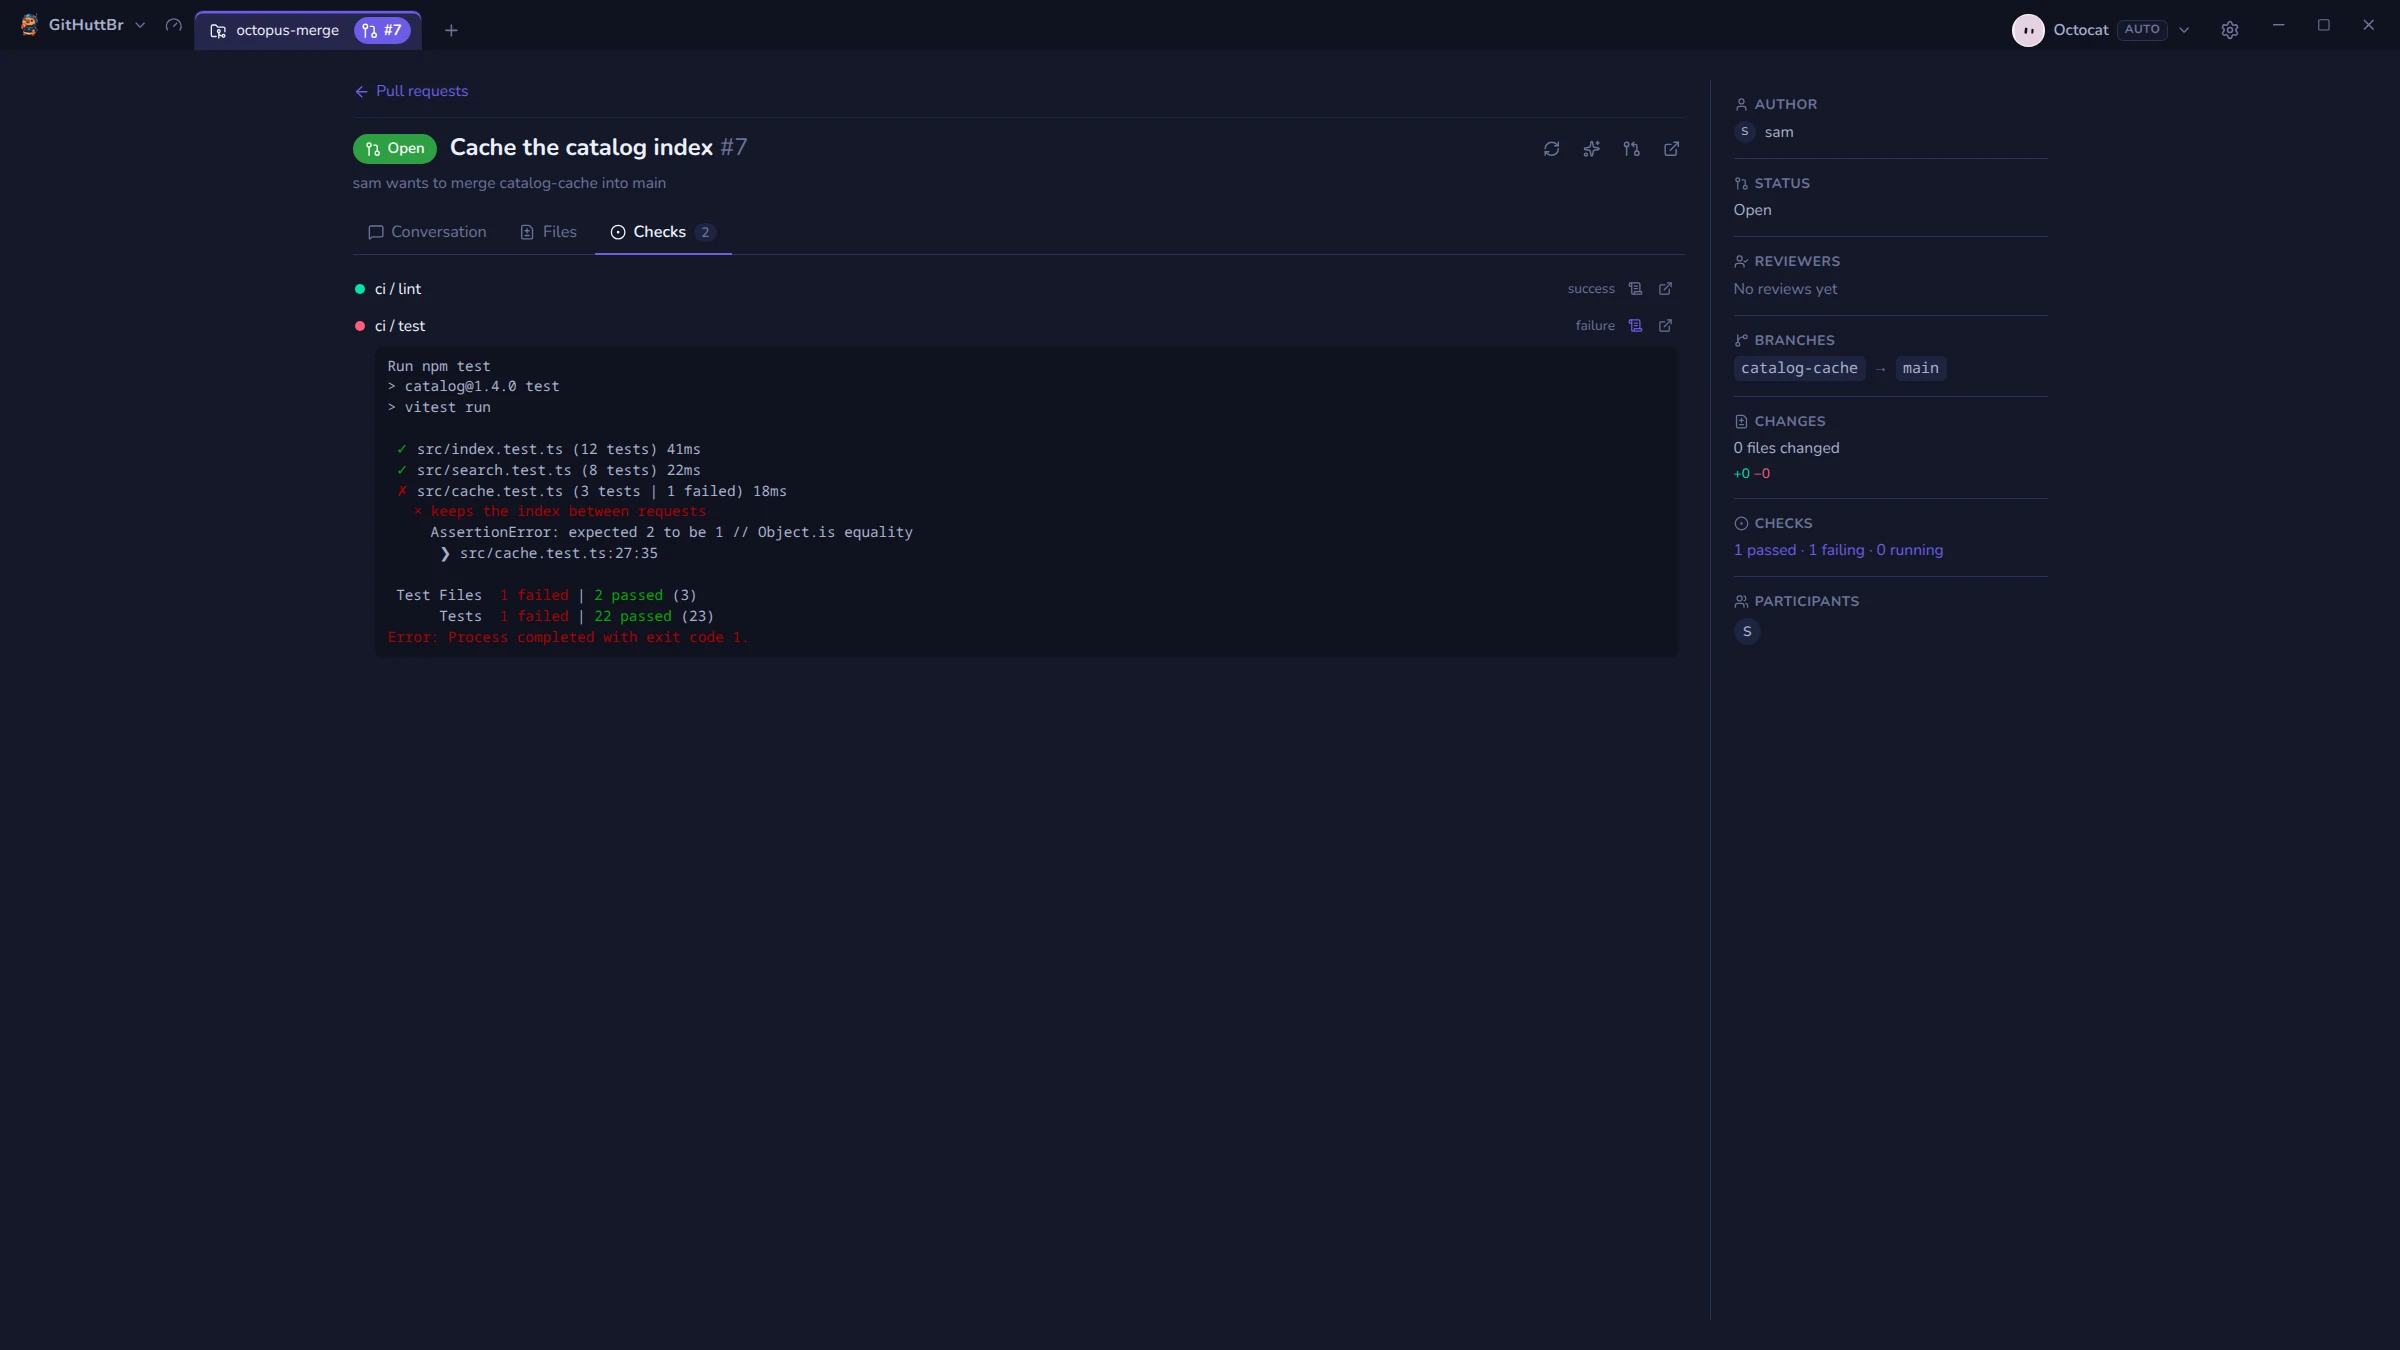
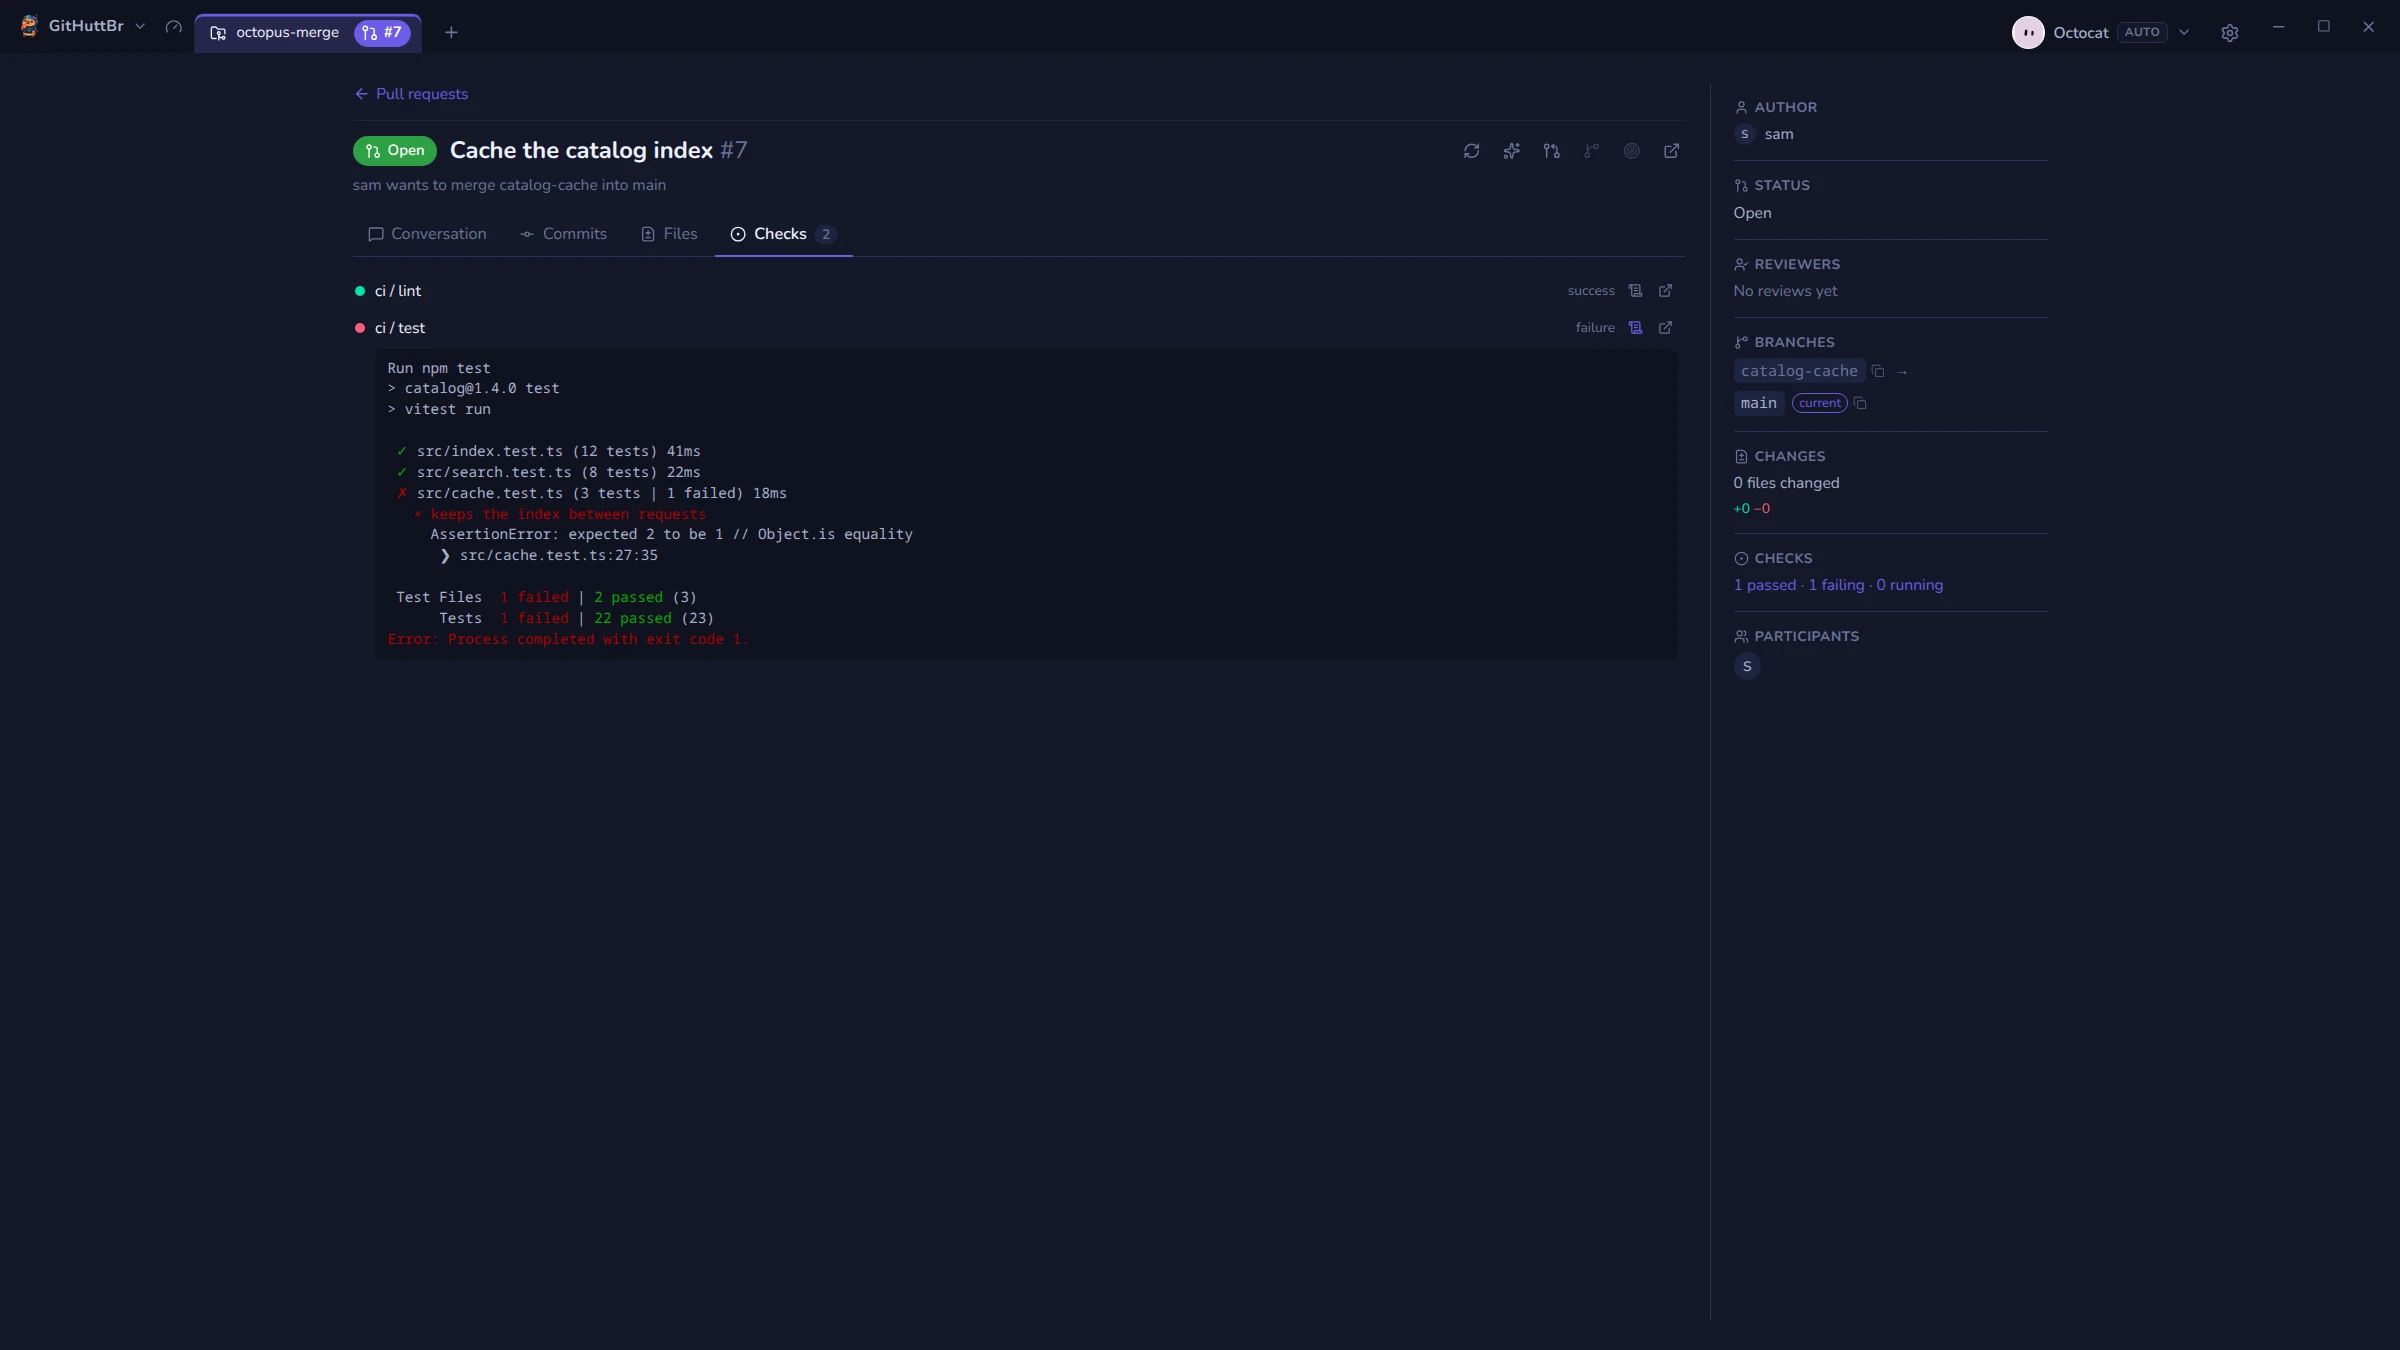
docs(pr): document the Commits tab, with a screenshot
A Commits section in the pull requests page (EN and pt-BR, source hash updated), a
pr-commits shot from faked commits, and one README line. The Files and Checks shots
move one tab to the right and are recaptured with the new tab bar.

diff --git a/docs/help/pt-BR/pull-requests.md b/docs/help/pt-BR/pull-requests.md
@@ -2,9 +2,9 @@
 title: Página de pull requests
 category: Sincronização e vários repositórios
 order: 57
-summary: Todos os pull requests de um repositório numa página — por estado, filtrados por autor, revisor, destino e CI — ‹ › para percorrer a lista filtrada de dentro de um PR, e comentários numa linha do diff.
-keywords: pull requests lista página merge requests pr mr filtro autor revisor meus aguardando minha revisão revisão pedida ci falhando branch de destino rascunhos mesclados fechados busca triagem anterior próximo alt seta navegação checkout ir para branch de origem destino copiar nome da branch buscar fetch comentário de linha comentário inline comentário de revisão comentar na linha aba arquivos revisão de código
-source: d1deab4d48f6f6327673e61daecb55ede0889881
+summary: Todos os pull requests de um repositório numa página — por estado, filtrados por autor, revisor, destino e CI — ‹ › para percorrer a lista filtrada de dentro de um PR, os commits dele, e comentários numa linha do diff.
+keywords: pull requests lista página merge requests pr mr filtro autor revisor meus aguardando minha revisão revisão pedida ci falhando branch de destino rascunhos mesclados fechados busca triagem anterior próximo alt seta navegação checkout ir para branch de origem destino copiar nome da branch buscar fetch comentário de linha comentário inline comentário de revisão comentar na linha aba arquivos revisão de código aba commits lista de commits commits do pr histórico abrir commit copiar sha buscar branch do pr
+source: 68a0d5d7aee35865690863be826be9099675b14f
 ---
 
 # Página de pull requests
@@ -156,6 +156,67 @@ O que não faz:
 - **Esta janela.** O checkout acontece na working tree deste repositório.
   Quando a branch já está em checkout em outra [worktree](worktrees.md), a aba
   dessa worktree é aberta no lugar.
+
+## Commits
+
+A barra lateral dizia quantos commits um pull request tem, nunca quais. Revisar
+um commit de cada vez — como a maioria dos pull requests foi feita para ser
+lida — mandava você para o navegador. A aba **Commits**, entre Conversa e
+Arquivos, lista os commits:
+
+- **Do mais antigo para o mais novo**, a ordem em que se aplicam, agrupados
+  pelo dia em que foram escritos. Um commit que entrou fora da ordem das datas
+  num rebase abre um dia próprio em vez de ser movido.
+- Cada linha tem a foto do autor (quando o host dá uma), o assunto, o autor,
+  há quanto tempo e o SHA curto. Um selo **merge** marca um commit com dois
+  pais, quando o host informa.
+- **▸** ao lado de um commit com mais que o assunto mostra o resto da mensagem.
+- **Copiar** põe o SHA completo na área de transferência; **Abrir no
+  navegador** abre o commit no host — dentro do pull request quando o host tem
+  essa página (GitHub, GitLab, Bitbucket Data Center), senão na página do
+  commit no repositório.
+
+![A aba Commits: os commits de um pull request agrupados por dia, um com a mensagem completa aberta](../../screenshots/pr-commits.webp)
+
+**Clique numa linha** — ou chegue nela com Tab e aperte Enter — para abrir o
+commit no app, como um clique no grafo faria: a visão do repositório, o commit
+selecionado, os detalhes abertos. Isso funciona quando este clone **tem** o
+commit. Quando não tem, a linha diz isso em vez de falhar calada, e oferece:
+
+- **Buscar a branch do PR para ver** — a mesma busca de uma branch só de
+  [ir para a branch](#ir-para-a-branch-de-um-pull-request), sem o checkout.
+  Quando o commit veio junto, ele abre; quando não veio (um force push o
+  reescreveu depois), o aviso diz isso.
+- **Abrir no navegador**, para quando buscar não é uma opção.
+
+A lista é lida na primeira vez que você abre a aba, não junto com a página, e
+de novo a cada **Atualizar**. Até ela chegar, o número da aba é o que o host
+informou para o pull request. Pull requests mesclados e fechados listam os
+commits do mesmo jeito.
+
+O que não faz:
+
+- **No máximo 250 commits.** O próprio GitHub não lista mais que 250 de um pull
+  request; o app para no mesmo número em todos os hosts, e diz *o host tem
+  mais* quando tem, com um link para o pull request no host.
+- **A branch de um fork** não pode ser buscada daqui — fica em outro
+  repositório —, então um commit que só existe no fork oferece apenas o
+  navegador. **Pré-visualizar o pull request localmente…** é o caminho para
+  trazê-lo.
+- **Uma branch apagada.** Um pull request mesclado muitas vezes levou a branch
+  junto: a busca diz isso. O bitbucket.org não lista commit nenhum depois que a
+  branch de origem some.
+- **Squash merges.** Os commits de um pull request mesclado com squash nunca
+  chegaram à branch de destino; depois que a branch dele é apagada, estão só no
+  host.
+- **Autores** aparecem como os commits os nomeiam. GitLab, Azure DevOps e
+  Bitbucket Data Center não dão foto sem um login que uma imagem não consegue
+  mandar, então essas linhas mostram a inicial.
+- **Mensagens longas no Azure DevOps** podem vir cortadas: a lista do Azure
+  trunca a mensagem do commit, e o app mostra o que ele manda.
+- **bitbucket.org**: os pull requests abrem no navegador — o app ainda não tem
+  página para eles —, então esta aba não aparece lá, embora o app consiga ler a
+  lista.
 
 ## Comentar numa linha
 

diff --git a/docs/help/pull-requests.md b/docs/help/pull-requests.md
@@ -2,8 +2,8 @@
 title: Pull requests page
 category: Sync & many repos
 order: 57
-summary: Every pull request of a repository on one page — by state, filtered by author, reviewer, target and CI — ‹ › to walk the filtered list from inside a PR, and comments on a line of its diff.
-keywords: pull requests list page merge requests pr mr filter author reviewer mine awaiting my review review requested ci failing target branch drafts merged closed search triage previous next alt arrow navigation checkout branch go to source target branch copy branch name fetch line comment inline comment review comment diff comment comment on line files tab code review
+summary: Every pull request of a repository on one page — by state, filtered by author, reviewer, target and CI — ‹ › to walk the filtered list from inside a PR, its commits, and comments on a line of its diff.
+keywords: pull requests list page merge requests pr mr filter author reviewer mine awaiting my review review requested ci failing target branch drafts merged closed search triage previous next alt arrow navigation checkout branch go to source target branch copy branch name fetch line comment inline comment review comment diff comment comment on line files tab code review commits tab commit list pr commits commit history open commit copy sha fetch pr branch
 ---
 
 # Pull requests page
@@ -151,6 +151,64 @@ What it does not do:
 - **This window.** The checkout happens in this repository's working tree. When
   the branch is already checked out in another [worktree](worktrees.md), that
   worktree's tab opens instead.
+
+## Commits
+
+The sidebar said how many commits a pull request has, never which. Reviewing
+one commit at a time — the way most pull requests are meant to be read — sent
+you to the browser. The **Commits** tab, between Conversation and Files, lists
+them:
+
+- **Oldest first**, the order they apply in, grouped under the day they were
+  authored. A commit rebased in out of date order starts a day of its own
+  rather than being moved.
+- Each row has the author's picture (where the host gives one), the subject,
+  the author, how long ago, and the short SHA. A **merge** badge marks a commit
+  with two parents, where the host says.
+- **▸** beside a commit with more than a subject shows the rest of its message.
+- **Copy** puts the full SHA on the clipboard; **Open in browser** opens the
+  commit on the host — inside the pull request where the host has such a page
+  (GitHub, GitLab, Bitbucket Data Center), else on the repository's commit page.
+
+![The Commits tab: a pull request's commits grouped by day, one with its full message open](../screenshots/pr-commits.webp)
+
+**Click a row** — or Tab to it and press Enter — to open the commit in the app,
+as a click in the graph would: the repository's view, that commit selected,
+its details open. That works when this clone **has** the commit. When it does
+not, the row says so instead of failing quietly, and offers:
+
+- **Fetch the PR branch to see it** — the same single-branch fetch as
+  [going to the branch](#going-to-a-pull-requests-branch), without the
+  checkout. When the commit came with it, it opens; when it did not (a force
+  push rewrote it since), the toast says so.
+- **Open in browser**, for when fetching is not an option.
+
+The list is read the first time you open the tab, not with the page, and again
+on every **Refresh**. Until it is in, the tab's count is the one the host
+gave for the pull request. Merged and closed pull requests list their commits
+the same way.
+
+What it does not do:
+
+- **At most 250 commits.** GitHub itself lists no more than 250 for a pull
+  request; the app stops at the same number on every host, and says *the host
+  has more* when it does, with a link to the pull request on the host.
+- **A fork's branch** cannot be fetched from here — it lives in another
+  repository — so a commit only in the fork offers the browser alone.
+  **Preview pull request locally…** is the way to bring it in.
+- **A deleted branch.** A merged pull request has often taken its branch with
+  it: the fetch says so. bitbucket.org lists no commits at all once the source
+  branch is gone.
+- **Squash merges.** A squash-merged pull request's commits never reached the
+  target branch, so after its branch is deleted they are on the host only.
+- **Authors** are named as their commits name them. GitLab, Azure DevOps and
+  Bitbucket Data Center give no picture without a sign-in an image cannot
+  send, so those rows show the initial.
+- **Long messages on Azure DevOps** may be cut short: Azure's list truncates a
+  commit's message, and the app shows what it sends.
+- **bitbucket.org** pull requests open in the browser — the app has no page for
+  them yet — so this tab is not reached there, although the app can read the
+  list.
 
 ## Commenting on a line
 

diff --git a/README.md b/README.md
@@ -136,7 +136,7 @@ git actually is.
 | **[Untracked-branch repair](docs/help/syncing.md)** | A pull that stops on "no tracking information" offers the fix as a button — link the branch to its remote, or push it if the remote has never seen it. |
 | **[Pull requests](docs/help/hosting.md)** | Create on GitHub, GitLab, Bitbucket, Azure DevOps and Forgejo, with [reviewers, assignees and labels](docs/help/hosting.md#reviewers-assignees-and-labels) picked from the host's own lists where the host has them; the new one is [listed in the app](docs/help/hosting.md#after-you-press-create), and the browser opens only if you ask. Review on GitHub, GitLab, Forgejo, Azure DevOps and Bitbucket Data Center in a [page of its own](docs/help/hosting.md#reviewing--github-and-gitlab), on the repository's tab or group chip: conversation, each file's diff, checks, an AI review of the host's diff, and a sidebar with reviewers and their decisions, labels, branches and size. A 👁 marks the ones [waiting for your review](docs/help/hosting.md#waiting-for-your-review). Each profile [links its own account](docs/help/hosting.md#tokens) — a token, or a login git's credential helper or the GitHub CLI already holds. |
 | **[Preview a pull request](docs/help/pr-preview.md)** | Run someone else's pull request on your machine — forks included, on any host — without committing anything. |
-| **[Pull requests page](docs/help/pull-requests.md)** | Every pull request of a repository on one page — open, drafts, merged, closed — filtered by author (*Me* first), reviewer (*review requested from me*), target branch and failing CI; inside a pull request, ‹ › and Alt+← / Alt+→ walk the filtered list it came from, and its branch names [check the branch out](docs/help/pull-requests.md#going-to-a-pull-requests-branch) — fetching it when only the server has it — and any line of its diff takes a [comment of its own](docs/help/pull-requests.md#commenting-on-a-line). |
+| **[Pull requests page](docs/help/pull-requests.md)** | Every pull request of a repository on one page — open, drafts, merged, closed — filtered by author (*Me* first), reviewer (*review requested from me*), target branch and failing CI; inside a pull request, ‹ › and Alt+← / Alt+→ walk the filtered list it came from, and its branch names [check the branch out](docs/help/pull-requests.md#going-to-a-pull-requests-branch) — fetching it when only the server has it; a [Commits tab](docs/help/pull-requests.md#commits) opens each commit in the graph or fetches the branch it is on; and any line of its diff takes a [comment of its own](docs/help/pull-requests.md#commenting-on-a-line). |
 | **[Issues, milestones & notifications](docs/help/hosting.md#issues-milestones-releases--github-and-forgejo)** | On GitHub and Forgejo: issues with a *create a branch for this issue*, milestones, releases, and the [notifications inbox](docs/help/hosting.md#notifications--github-and-forgejo) behind the toolbar bell. |
 | **[Azure Pipelines checks and logs](docs/help/hosting.md#reviewing--github-and-gitlab)** | Build-validation policies appear alongside PR statuses. Read failed tasks or job logs from the Checks tab. |
 | **[Errors that explain themselves](docs/help/syncing.md#when-the-host-refuses)** | A push refused for a missing `workflow` scope, a 100 MB file, a protected branch or a missing credential says why and what to do, in your language — git's raw text one click away. |
